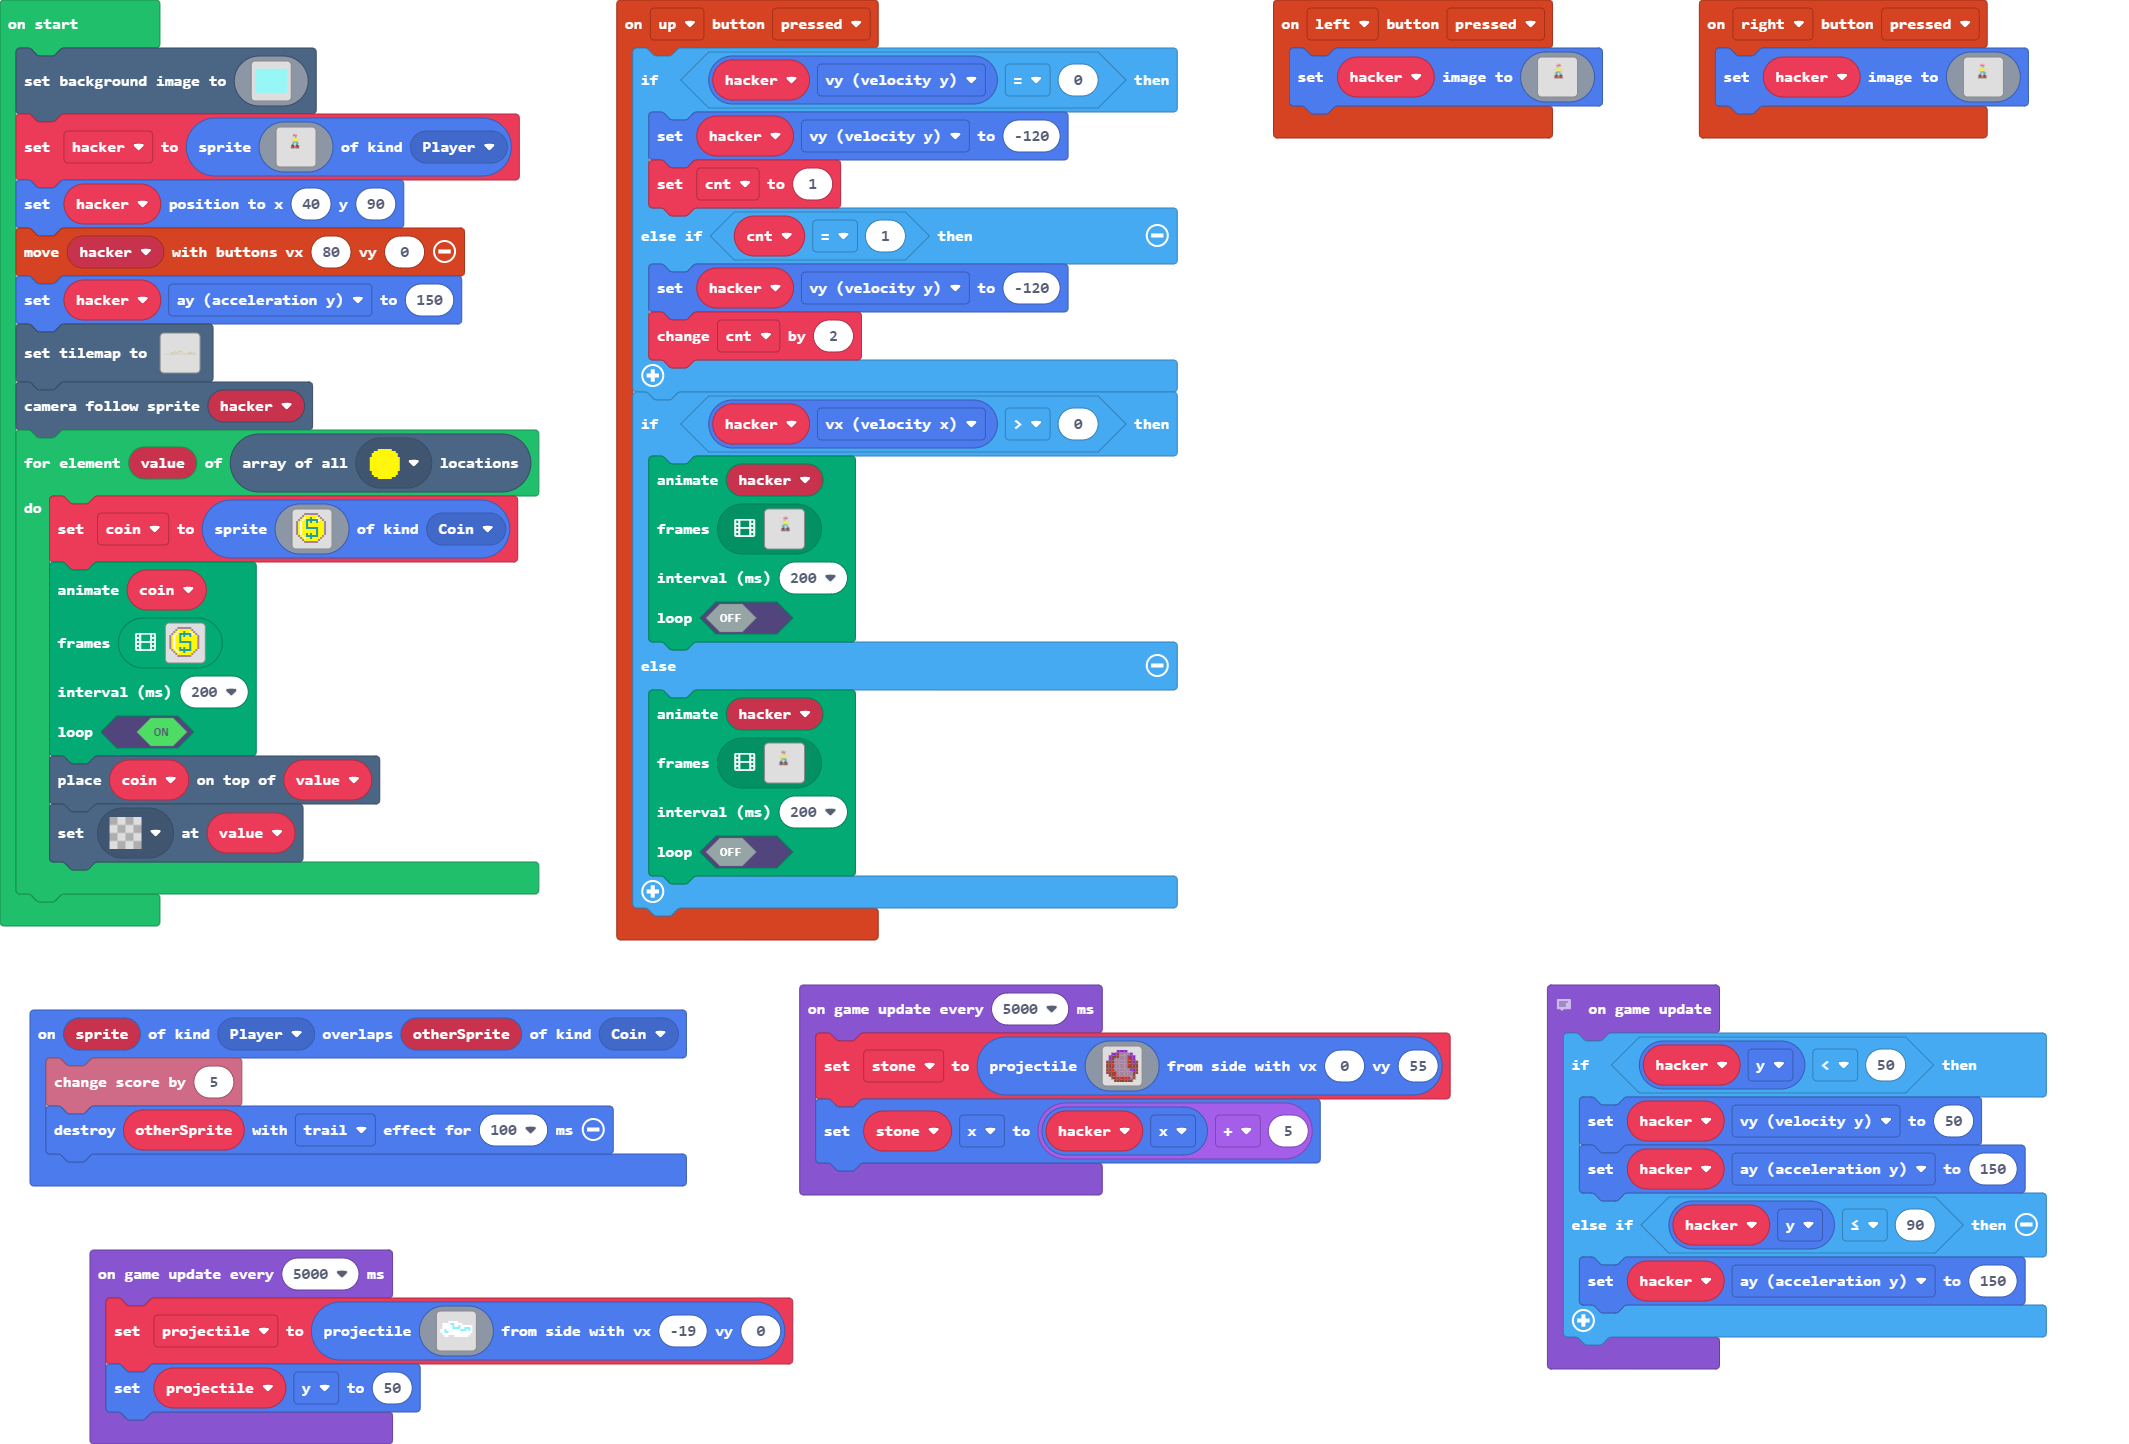
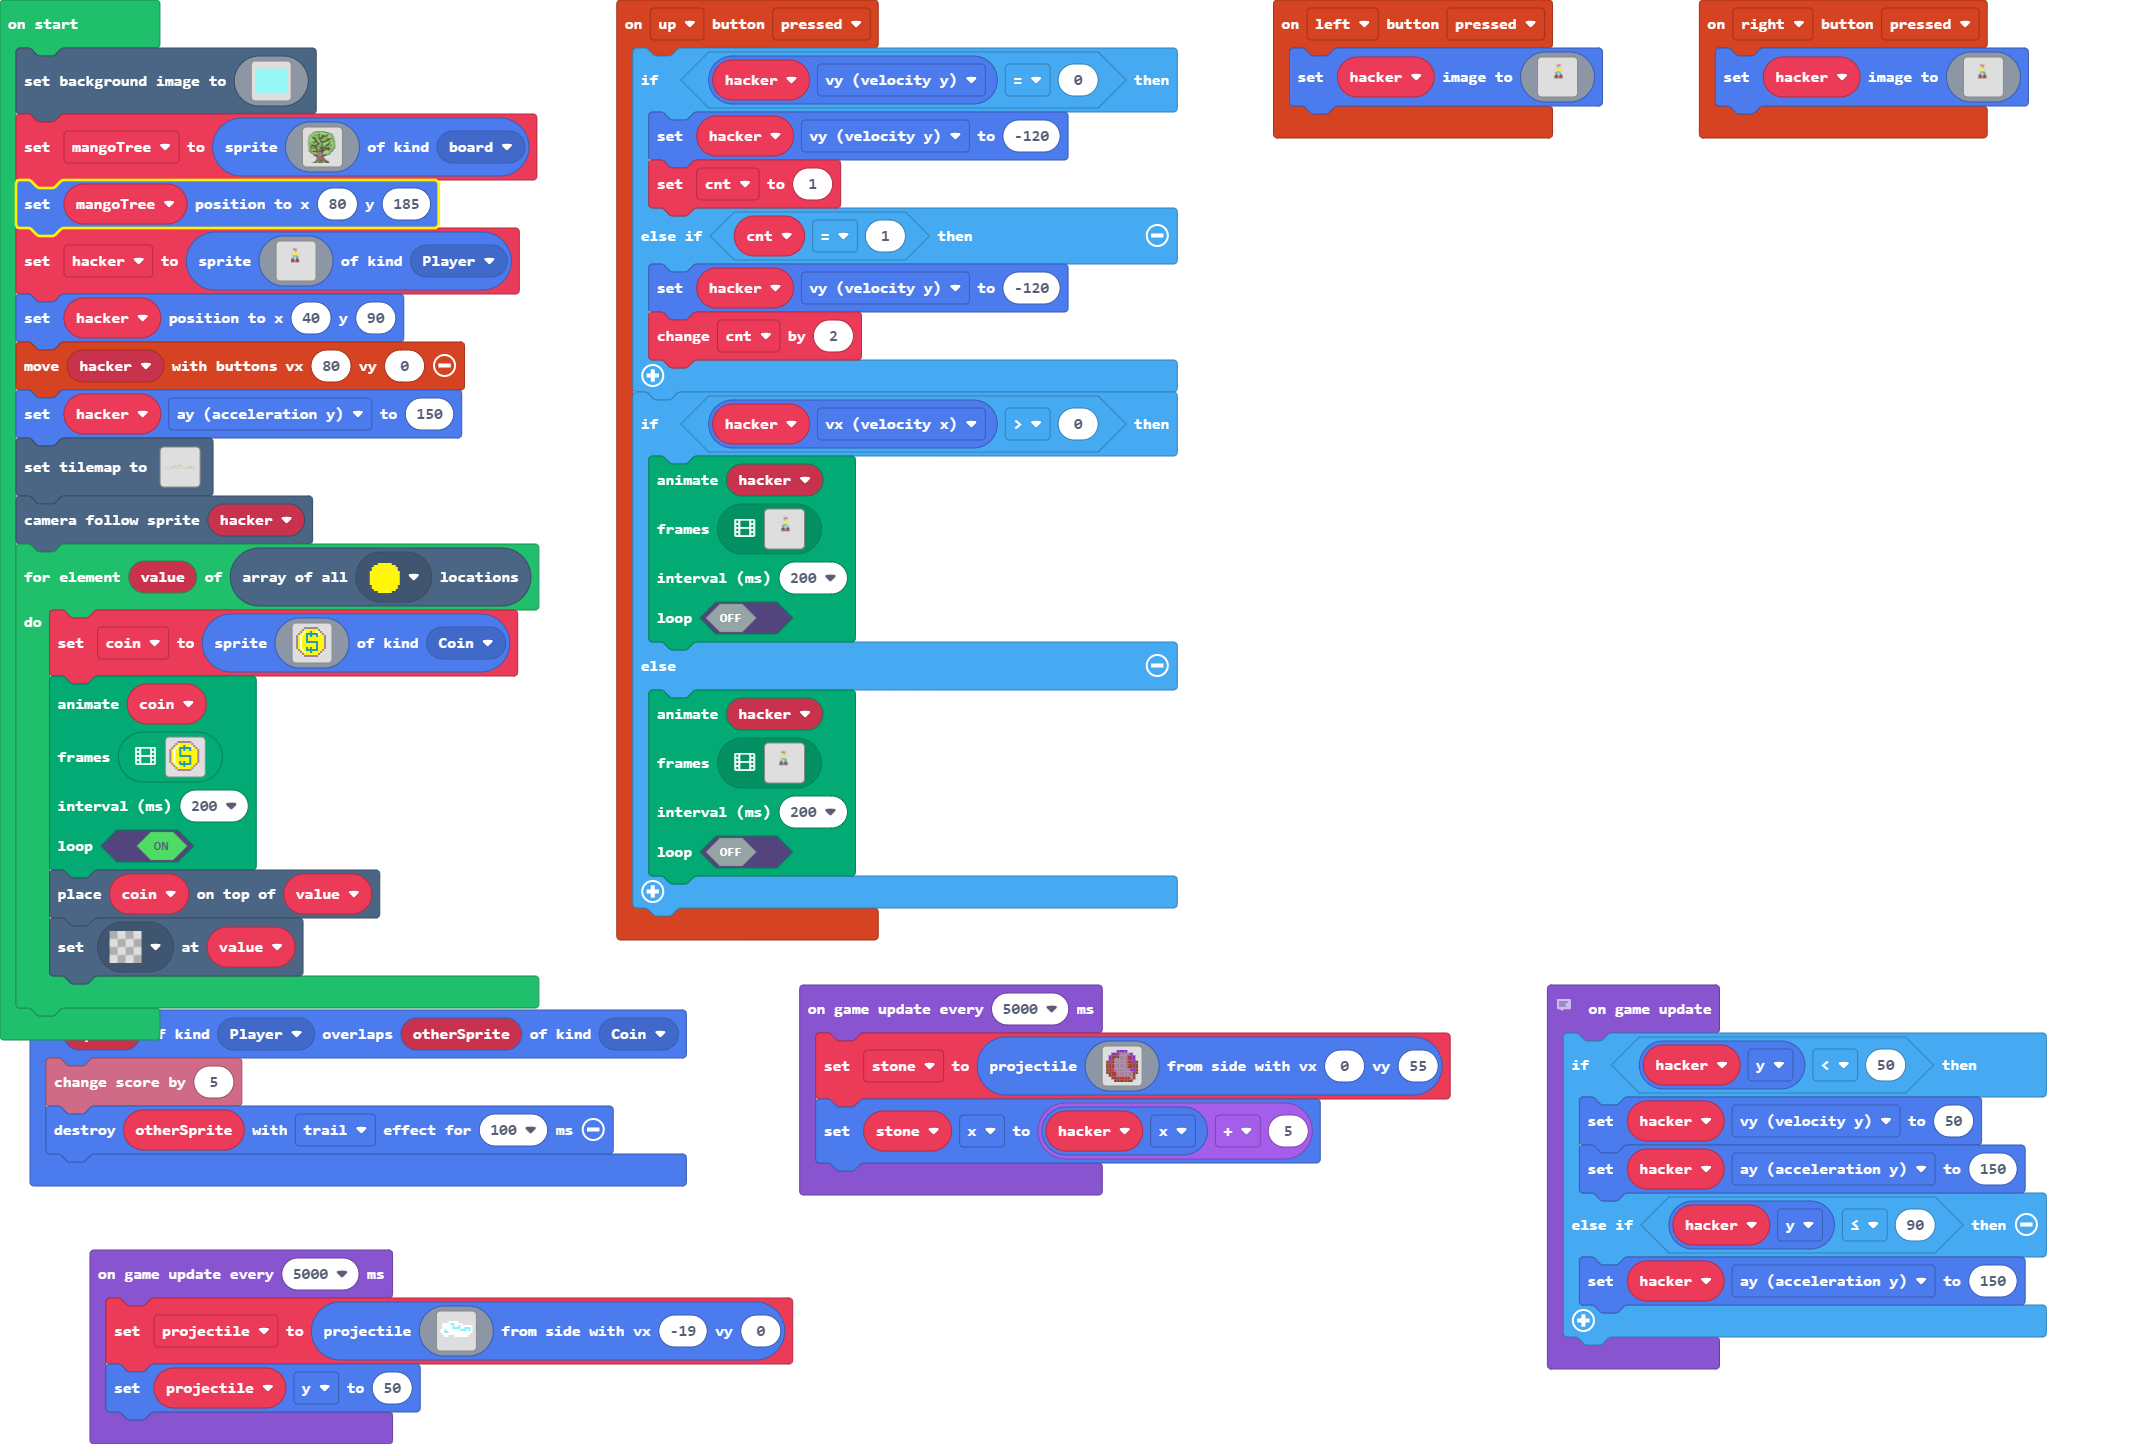
start Tree

Changed region(s): [[0.0, 0.0623, 0.279, 0.7479]]

diff --git a/images.g.ts b/images.g.ts
@@ -1389,6 +1389,107 @@ b 5 1 5 5 6 5 6 5 5 6 5 5 5 b .
 . . . . b b b b b b b . . . . . 
 . . . . . . . . . . . . . . . . 
 `;
+            case "image23":return img`
+. . . . . . . . . . . . . . . . 
+. . . . . . . . . . . . . . . . 
+. . . . . . . . . . . . . . . . 
+. . . . . . . . . . . . . . . . 
+. . . . . . . . . . . . . . . . 
+. . . . . . . . . . . . . . . . 
+. . . . . . . . . . . . . . . . 
+. . . . . . . . . . . . . . . . 
+. . . . . . . . . . . . . . . . 
+. . . . . . . . . . . . . . . . 
+. . . . . . . . . . . . . . . . 
+. . . . . . . . . . . . . . . . 
+. . . . . . . . . . . . . . . . 
+. . . . . . . . . . . . . . . . 
+. . . . . . . . . . . . . . . . 
+. . . . . . . . . . . . . . . . 
+`;
+            case "image22":
+            case "mangoTree":return img`
+................................................................................
+........................ffffff.....ffffffffff...................................
+.....................ffff7777ffffff777777777fff.................................
+..................fff7777777777777777777777777fffff.............................
+.................ff7777777777777777777777777777777fffff7........................
+................ff777777777777777777777777777777777777fff.......................
+..............ff777777777777777f777777777777777777777777ff.7..7.................
+.............f7777777777777777fff7777777777777777777777777fffff.................
+.............f7777777777777777feff77777777777777777777777777777ff...............
+............f777777777fff77777feef777777fff777777777fff777777777f...............
+.........fff777777777ff5ff7777feff77777feef777777ffffef777777777f...............
+........ff777777777fff555f7777fef77777feeeffff777feeeef777777777f...............
+........f7777777777f55555f7777fef77777feefffeff7feeeff7777777777f...............
+.......ff77777777fff55555f7777fef77777feefeeefffffff777777777777ff..............
+.......f777777777ff555555f7777fef77777feefffff5fff777777777777777ff.............
+.......f7777777f77ff5555ff7777fef777ffeeeffff555f777777777777777777f............
+.......f7777777ff77ffffff77777fff77ffeeffff55555f7777f7777777777777f............
+.......f7777777ffffffff77777777ff77feefffff55555f777ff7777777777777f............
+.......f77777777feeeff777777777ffffefff7ff555555f777fef7777ffff7777f............
+.......f77777777fffeeff77777777ffeffff777ff5555ff777feff77fffff7777f............
+.......f7777777777fffeefff77777ffeef777777ffffff7777feeffffff5ff777f............
+......f77777777777777ffefef77777ffeff77777777777777feeefffff555f777ff...........
+......f777777777777777fffef7777777fef777777777777fffeeff7f55555f7777f...........
+.....ff7777777777777777ffef7777777fef777777777777feeef7fff55555f77777f..........
+.....f777777777777777ffffff7777777ffff77777777ffffffff7ff555555f77777f..........
+.....f77777777777777ffeeefff7777777feff7fffffffeeeff7777ff5555ff77777f..........
+.....f77777777777777feefffef7777777feefffeefeeeeeff777777ffffff777777f..........
+.....f77777777ff777ffef77feff777777ffeefeeffffffff7777777777777777777f..........
+.....f7777777ff5fffeeff77ffef7777777ffffeff777777777777777ff777777777f..........
+......f7777fff555feeff7777feff7ff77777ffef77777777777777ffef777777777f..........
+......f7777f55555ffff77777ffeefef777777fef77777777777777feef777777777f..........
+.....ff77fff55555f777777777ffefeff77777ff77777777777777fffff7777777777f.........
+.....f777ff555555f7777777777fffef77777fff777777777777fffef777777777777f.........
+.....f7777ff5555ff777777fff7fffff77777fef77777777fff7fefff777f77777777f.........
+.....f77777ffffff777777feeeffef777777feef77777777fefffff77777ff7777777f.........
+.....f7777777ffffff777feeeeeef7777777feef77777777feefef777777ff7777777f.........
+.....f7777777feeeeff7fffffffff7777777feff7777f777fefff777777fff7777777f.........
+......f77777ffffffffffff7777777777777fef777fff777fef7777777ff5ff777777f.........
+......f77777fef777feefeff77777ffff777fef777fef777fff77777fff555f777777f.........
+......f777fffef777ffeffeff77fff5ff777fef777fef77fef777777f55555f777777f.........
+......f777feeef7777fffffef7fff555ff77feff7feef77fef7777fff55555f777777f.........
+......f777feff7777777fffef7f55555fffffeefffeff7feef7777ff555555f777777f.........
+......f777ff77777777777fefff55555feeeffeeffff77fefffffffff5555ff77777ff.........
+......f777ff777ffffff777fff555555ffffefeeeff77feefeeeefffffffff777777f..........
+......f7777777ff5fff7777feff5555ff77ffffeef777feffeefffefffff7777777f...........
+......f77777fff555f77777fffffffff77777ffeef77ffefeefffeef777777777ff............
+......f77777f55555f777777ff777777ff777fefef77feffff77feeff7777777ff.............
+.......f77fff55555f777777fff7777fff77ffffefffeeff7777ffeeff777777f..............
+.......f77ff555555f777777fef7777fef7ffefeffeeff7777777fffff777777f..............
+.......f777ff5555ff777777feff77ffef7feefffeeff777777777777777777ff..............
+.......ff777fffffffffffffffef7ffeef7fefffeff7777777777777777777ff...............
+........fff77777ffeeefffeeeefffeeefffefffff777777777777777777ff.................
+..........ff77777fffff7ffffeeeeeeeeeeeefef77777777777777777fff..................
+...........f77777777777777feeeeeeeeeeeefef7777777777777777f.....................
+...........ff7777777777777febbbbeebbbbbfff7777777777777777f.....................
+............ffff7777777777febbbbeebeebbff77777777777777777f.....................
+...............ff7777777777fbeeeeebeebbff77777777777777777f.....................
+................f7fff777777fbeeeeebeebbf77777777777777777ff.....................
+..................fef777777fbebbeebeebbf777777777fffffffff......................
+..................feff77777fbebbbebeebbf77fffffffff.............................
+..................feefffffffbebebebeebbf7ffeeeeeff..............................
+...................ffffeeffebbbebebbbbbffffffffff...............................
+......................ffeefeeeeeeeeeeeeeeef.....................................
+........................ffffeeeeeeeeeeeefff.....................................
+..........................ffeeeeeeeeeeeeff......................................
+..........................ffeeeeeeeeeeeeef......................................
+...........................feeeeeeeeeeeeeef.....................................
+..........................feeeeeeeeeeeeeeef.....................................
+..........................feeeeeeeeeeeeeeeff....................................
+..........................feeeeeeeeeeeeeeeeff...................................
+..........................feeeeeeeeeeeeeeeeeff..................................
+.........................feeeeeeeeeeeeeeeeeeef..................................
+.........................feeeeeeffeeeeeeeeeeeeff................................
+........................ffeeeeff7feeeefffeeeeeeef...............................
+........................feeeef777feeeef7ffffeeeeeff.............................
+.......................feeeef777feeffff7777ffeeeeeeff...........................
+......................ffeeef777feffff77f77777ffeeeeefff.........................
+.....................ffeeeff777fef77ff7ff77777fffeeeeeff........................
+...................ffeeeef77777ffff77ff7f7777777ffffff.f........................
+..............ffffffffffff77777fffff77fffff77777fffffffff.......................
+`;
         }
         return null;
     })

diff --git a/tilemap.g.ts b/tilemap.g.ts
@@ -7,8 +7,6 @@ namespace myTiles {
     //% fixedInstance jres blockIdentity=images._tile
     export const tile2 = image.ofBuffer(hex``);
     //% fixedInstance jres blockIdentity=images._tile
-    export const tile3 = image.ofBuffer(hex``);
-    //% fixedInstance jres blockIdentity=images._tile
     export const tile4 = image.ofBuffer(hex``);
     //% fixedInstance jres blockIdentity=images._tile
     export const tile5 = image.ofBuffer(hex``);
@@ -16,6 +14,8 @@ namespace myTiles {
     export const tile6 = image.ofBuffer(hex``);
     //% fixedInstance jres blockIdentity=images._tile
     export const tile7 = image.ofBuffer(hex``);
+    //% fixedInstance jres blockIdentity=images._tile
+    export const tile8 = image.ofBuffer(hex``);
 
     helpers._registerFactory("tilemap", function(name: string) {
         switch(helpers.stringTrim(name)) {
@@ -91,7 +91,7 @@ namespace myTiles {
 .....................................................................................................222......
 ..............................................................................................................
 ..............................................................................................................
-...........2...............2...............2...............2...............2...............2...............2..
+..............................................................................................................
 22222222222222222222222222222222222222222222222222222222222222222222222222222222222222222222222222222222222222
 ..............................................................................................................
 `, [myTiles.transparency16,sprites.castle.tilePath1,sprites.castle.tilePath2,sprites.castle.saplingOak,myTiles.tile1,myTiles.tile5,myTiles.tile6,myTiles.tile7], TileScale.Sixteen);
@@ -106,7 +106,6 @@ namespace myTiles {
             case "tile1":return tile1;
             case "tile0":
             case "tile2":return tile2;
-            case "tile3":return tile3;
             case "tile5":
             case "tile4":return tile4;
             case "cactus":
@@ -115,6 +114,8 @@ namespace myTiles {
             case "tile6":return tile6;
             case "tileCoinRepl":
             case "tile7":return tile7;
+            case "tile9":
+            case "tile8":return tile8;
         }
         return null;
     })

diff --git a/main.ts b/main.ts
@@ -1,5 +1,6 @@
 namespace SpriteKind {
     export const Coin = SpriteKind.create()
+    export const board = SpriteKind.create()
 }
 controller.up.onEvent(ControllerButtonEvent.Pressed, function () {
     if (hacker.vy == 0) {
@@ -162,6 +163,8 @@ scene.setBackgroundImage(img`
     9999999999999999999999999999999999999999999999999999999999999999999999999999999999999999999999999999999999999999999999999999999999999999999999999999999999999999
     9999999999999999999999999999999999999999999999999999999999999999999999999999999999999999999999999999999999999999999999999999999999999999999999999999999999999999
     `)
+let mangoTree = sprites.create(assets.image`mangoTree`, SpriteKind.board)
+mangoTree.setPosition(80, 185)
 hacker = sprites.create(assets.image`Temporary asset2`, SpriteKind.Player)
 hacker.setPosition(40, 90)
 controller.moveSprite(hacker, 80, 0)
